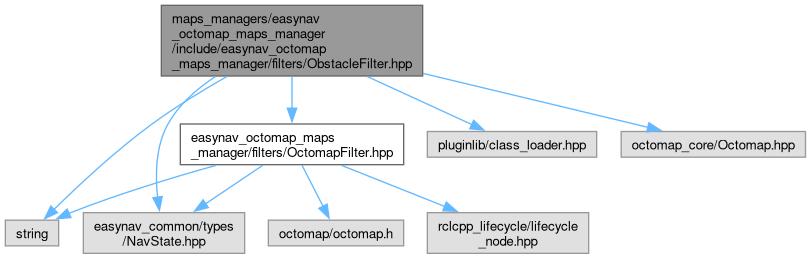
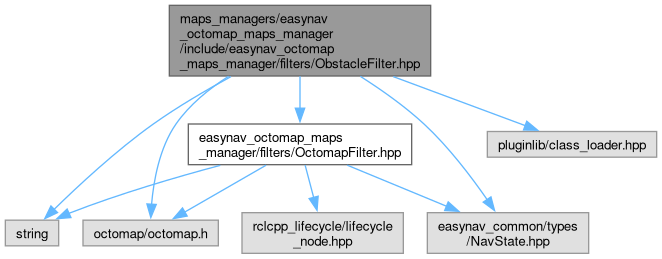
deploy: 0b95273f2a2592308e8ab91c7a0aa5f71e18d4a2

diff --git a/easynav__octomap__maps__manager_2src_2easynav__octomap__maps__manager_2filters_2InflationFilter_8cpp.html b/easynav__octomap__maps__manager_2src_2easynav__octomap__maps__manager_2filters_2InflationFilter_8cpp.html
@@ -111,7 +111,7 @@ document.addEventListener('DOMContentLoaded', () => {
 <code>#include &quot;easynav_common/types/NavState.hpp&quot;</code><br />
 <code>#include &quot;easynav_sensors/types/Perceptions.hpp&quot;</code><br />
 <code>#include &quot;easynav_sensors/types/PointPerception.hpp&quot;</code><br />
-<code>#include &quot;octomap_core/Octomap.hpp&quot;</code><br />
+<code>#include &quot;octomap/octomap.h&quot;</code><br />
 <code>#include &quot;<a class="el" href="easynav__octomap__maps__manager_2include_2easynav__octomap__maps__manager_2filters_2InflationFilter_8hpp_source.html">easynav_octomap_maps_manager/filters/InflationFilter.hpp</a>&quot;</code><br />
 <code>#include &lt;pluginlib/class_list_macros.hpp&gt;</code><br />
 </div><div class="textblock"><div class="dynheader">
@@ -119,34 +119,33 @@ Include dependency graph for InflationFilter.cpp:</div>
 <div class="dyncontent">
 <div class="center"><img src="easynav__octomap__maps__manager_2src_2easynav__octomap__maps__manager_2filters_2InflationFilter_8cpp__incl.png" border="0" usemap="#amaps__managers_2easynav__octomap__maps__manager_2src_2easynav__octomap__maps__manager_2filters_2InflationFilter_8cpp" loading="lazy" alt=""/></div>
 <map name="amaps__managers_2easynav__octomap__maps__manager_2src_2easynav__octomap__maps__manager_2filters_2InflationFilter_8cpp" id="amaps__managers_2easynav__octomap__maps__manager_2src_2easynav__octomap__maps__manager_2filters_2InflationFilter_8cpp">
-<area shape="rect" title=" " alt="" coords="235,5,451,76"/>
-<area shape="rect" title=" " alt="" coords="156,309,210,334"/>
-<area shape="poly" title=" " alt="" coords="236,54,191,63,144,78,100,98,61,126,31,156,13,186,9,201,9,217,13,234,23,252,47,277,77,295,110,306,142,313,141,319,109,312,75,300,44,281,18,255,8,236,3,218,3,201,8,184,27,152,57,122,98,94,143,73,189,58,234,48"/>
-<area shape="rect" title=" " alt="" coords="578,301,740,342"/>
-<area shape="poly" title=" " alt="" coords="452,43,541,57,588,70,634,86,678,108,717,136,750,170,775,212,781,233,775,255,755,278,731,296,728,292,752,274,770,252,776,233,770,214,746,173,713,140,675,113,632,91,586,75,539,62,451,49"/>
-<area shape="rect" title=" " alt="" coords="83,124,240,165"/>
-<area shape="poly" title=" " alt="" coords="283,79,211,118,209,114,280,74"/>
-<area shape="rect" title=" " alt="" coords="264,124,422,165"/>
-<area shape="poly" title=" " alt="" coords="346,76,346,108,340,108,340,76"/>
-<area shape="rect" title=" " alt="" coords="32,220,217,246"/>
-<area shape="poly" title=" " alt="" coords="236,64,136,90,97,107,73,126,67,145,72,167,85,188,101,207,97,211,81,191,67,169,61,145,69,122,94,102,135,85,234,58"/>
-<area shape="rect" href="easynav__octomap__maps__manager_2include_2easynav__octomap__maps__manager_2filters_2InflationFilter_8hpp.html" title=" " alt="" coords="446,124,661,165"/>
-<area shape="poly" title=" " alt="" coords="416,74,500,114,498,119,414,79"/>
-<area shape="rect" title=" " alt="" coords="835,124,963,165"/>
-<area shape="poly" title=" " alt="" coords="451,56,623,85,817,121,821,122,820,127,816,127,623,91,451,62"/>
-<area shape="poly" title=" " alt="" coords="446,168,350,190,309,202,280,215,256,233,234,255,200,298,196,294,230,251,252,229,278,210,307,197,348,185,445,163"/>
-<area shape="poly" title=" " alt="" coords="557,165,564,207,571,230,581,252,597,272,617,290,613,294,594,276,577,255,566,232,559,208,552,165"/>
-<area shape="poly" title=" " alt="" coords="456,168,200,219,199,214,455,163"/>
-<area shape="rect" title=" " alt="" coords="590,220,760,246"/>
-<area shape="poly" title=" " alt="" coords="583,163,647,209,644,213,580,167"/>
-<area shape="rect" href="OctomapFilter_8hpp.html" title=" " alt="" coords="291,213,515,253"/>
-<area shape="poly" title=" " alt="" coords="521,167,451,207,449,203,518,163"/>
-<area shape="poly" title=" " alt="" coords="346,256,223,304,221,304,219,299,221,299,344,251"/>
-<area shape="poly" title=" " alt="" coords="462,251,587,293,586,299,460,256"/>
-<area shape="rect" title=" " alt="" coords="234,309,369,334"/>
-<area shape="poly" title=" " alt="" coords="382,256,329,301,325,297,378,252"/>
-<area shape="rect" title=" " alt="" coords="393,301,554,342"/>
-<area shape="poly" title=" " alt="" coords="421,252,450,288,446,291,417,256"/>
+<area shape="rect" title=" " alt="" coords="519,5,734,76"/>
+<area shape="rect" title=" " alt="" coords="5,309,59,334"/>
+<area shape="poly" title=" " alt="" coords="519,53,410,63,293,79,187,100,146,112,115,126,89,144,73,162,48,214,37,255,34,294,29,293,32,254,43,212,68,159,86,140,112,122,144,107,186,95,292,74,410,58,518,47"/>
+<area shape="rect" title=" " alt="" coords="161,301,322,342"/>
+<area shape="poly" title=" " alt="" coords="519,60,390,83,250,117,186,138,130,161,87,186,60,214,54,229,54,242,60,254,71,265,105,284,147,299,145,304,103,289,68,270,56,257,49,244,48,228,55,211,83,182,127,156,184,133,249,112,389,78,518,55"/>
+<area shape="rect" title=" " alt="" coords="664,124,821,165"/>
+<area shape="poly" title=" " alt="" coords="668,74,711,112,707,116,664,78"/>
+<area shape="rect" title=" " alt="" coords="845,124,1003,165"/>
+<area shape="poly" title=" " alt="" coords="729,74,853,116,851,121,728,79"/>
+<area shape="rect" title=" " alt="" coords="531,309,666,334"/>
+<area shape="poly" title=" " alt="" coords="626,76,604,293,599,293,621,76"/>
+<area shape="rect" href="easynav__octomap__maps__manager_2include_2easynav__octomap__maps__manager_2filters_2InflationFilter_8hpp.html" title=" " alt="" coords="244,124,460,165"/>
+<area shape="poly" title=" " alt="" coords="533,79,420,121,418,116,532,74"/>
+<area shape="rect" title=" " alt="" coords="1027,124,1154,165"/>
+<area shape="poly" title=" " alt="" coords="735,61,1012,121,1011,126,734,66"/>
+<area shape="poly" title=" " alt="" coords="244,161,134,182,88,197,59,215,47,232,39,252,33,294,28,293,34,251,42,229,56,211,86,192,132,177,243,156"/>
+<area shape="poly" title=" " alt="" coords="339,167,305,214,261,289,256,286,300,211,335,164"/>
+<area shape="poly" title=" " alt="" coords="461,162,509,181,552,211,569,229,581,251,596,293,591,295,576,253,564,233,549,215,507,186,459,167"/>
+<area shape="rect" title=" " alt="" coords="70,220,239,246"/>
+<area shape="poly" title=" " alt="" coords="308,168,197,216,195,211,306,163"/>
+<area shape="rect" href="OctomapFilter_8hpp.html" title=" " alt="" coords="315,213,538,253"/>
+<area shape="poly" title=" " alt="" coords="371,163,402,199,398,203,367,167"/>
+<area shape="poly" title=" " alt="" coords="337,257,75,314,74,309,336,251"/>
+<area shape="poly" title=" " alt="" coords="386,256,298,297,296,292,383,251"/>
+<area shape="poly" title=" " alt="" coords="467,251,562,299,560,304,465,256"/>
+<area shape="rect" title=" " alt="" coords="346,301,507,342"/>
+<area shape="poly" title=" " alt="" coords="429,254,429,286,424,286,424,254"/>
 </map>
 </div>
 </div><table class="memberdecls">

diff --git a/easynav__octomap__maps__manager_2src_2easynav__octomap__maps__manager_2filters_2ObstacleFilter_8cpp.html b/easynav__octomap__maps__manager_2src_2easynav__octomap__maps__manager_2filters_2ObstacleFilter_8cpp.html
@@ -111,7 +111,7 @@ document.addEventListener('DOMContentLoaded', () => {
 <code>#include &quot;easynav_common/types/NavState.hpp&quot;</code><br />
 <code>#include &quot;easynav_sensors/types/Perceptions.hpp&quot;</code><br />
 <code>#include &quot;easynav_sensors/types/PointPerception.hpp&quot;</code><br />
-<code>#include &quot;octomap_core/Octomap.hpp&quot;</code><br />
+<code>#include &quot;octomap/octomap.h&quot;</code><br />
 <code>#include &quot;<a class="el" href="easynav__octomap__maps__manager_2include_2easynav__octomap__maps__manager_2filters_2ObstacleFilter_8hpp_source.html">easynav_octomap_maps_manager/filters/ObstacleFilter.hpp</a>&quot;</code><br />
 <code>#include &lt;pluginlib/class_list_macros.hpp&gt;</code><br />
 </div><div class="textblock"><div class="dynheader">
@@ -119,34 +119,33 @@ Include dependency graph for ObstacleFilter.cpp:</div>
 <div class="dyncontent">
 <div class="center"><img src="easynav__octomap__maps__manager_2src_2easynav__octomap__maps__manager_2filters_2ObstacleFilter_8cpp__incl.png" border="0" usemap="#amaps__managers_2easynav__octomap__maps__manager_2src_2easynav__octomap__maps__manager_2filters_2ObstacleFilter_8cpp" loading="lazy" alt=""/></div>
 <map name="amaps__managers_2easynav__octomap__maps__manager_2src_2easynav__octomap__maps__manager_2filters_2ObstacleFilter_8cpp" id="amaps__managers_2easynav__octomap__maps__manager_2src_2easynav__octomap__maps__manager_2filters_2ObstacleFilter_8cpp">
-<area shape="rect" title=" " alt="" coords="232,5,454,76"/>
-<area shape="rect" title=" " alt="" coords="156,309,210,334"/>
-<area shape="poly" title=" " alt="" coords="232,54,188,64,143,78,99,99,61,126,31,156,13,186,9,201,9,217,13,234,23,252,47,277,77,295,110,306,142,313,141,319,109,312,75,300,44,281,18,255,8,236,3,218,3,201,8,184,27,152,57,122,97,94,141,73,186,59,231,49"/>
-<area shape="rect" title=" " alt="" coords="578,301,740,342"/>
-<area shape="poly" title=" " alt="" coords="455,43,544,57,590,70,636,86,680,108,718,136,751,170,775,212,781,233,775,255,755,278,731,296,728,292,752,274,770,252,776,233,770,214,746,173,715,140,677,113,634,91,589,75,543,62,454,49"/>
-<area shape="rect" title=" " alt="" coords="83,124,240,165"/>
-<area shape="poly" title=" " alt="" coords="283,79,211,118,209,114,280,74"/>
-<area shape="rect" title=" " alt="" coords="264,124,422,165"/>
-<area shape="poly" title=" " alt="" coords="346,76,346,108,340,108,340,76"/>
-<area shape="rect" title=" " alt="" coords="32,220,217,246"/>
-<area shape="poly" title=" " alt="" coords="232,64,135,91,97,107,73,126,67,145,72,167,85,188,101,207,97,211,81,191,67,169,61,145,69,122,94,103,133,86,231,59"/>
-<area shape="rect" href="easynav__octomap__maps__manager_2include_2easynav__octomap__maps__manager_2filters_2ObstacleFilter_8hpp.html" title=" " alt="" coords="445,124,668,165"/>
-<area shape="poly" title=" " alt="" coords="417,74,502,114,500,119,415,79"/>
-<area shape="rect" title=" " alt="" coords="835,124,963,165"/>
-<area shape="poly" title=" " alt="" coords="455,57,626,86,817,121,821,122,820,127,816,127,625,91,454,62"/>
-<area shape="poly" title=" " alt="" coords="447,168,350,190,309,202,280,215,256,233,234,255,200,298,196,294,230,251,252,229,278,210,307,197,349,185,446,163"/>
-<area shape="poly" title=" " alt="" coords="559,165,565,207,571,230,581,252,597,272,617,290,613,294,593,276,577,255,566,232,560,208,554,166"/>
-<area shape="poly" title=" " alt="" coords="458,168,200,219,199,214,457,163"/>
-<area shape="rect" title=" " alt="" coords="590,220,760,246"/>
-<area shape="poly" title=" " alt="" coords="585,163,648,209,645,213,582,167"/>
-<area shape="rect" href="OctomapFilter_8hpp.html" title=" " alt="" coords="291,213,515,253"/>
-<area shape="poly" title=" " alt="" coords="523,168,452,207,449,203,520,163"/>
-<area shape="poly" title=" " alt="" coords="346,256,223,304,221,304,219,299,221,299,344,251"/>
-<area shape="poly" title=" " alt="" coords="462,251,587,293,586,299,460,256"/>
-<area shape="rect" title=" " alt="" coords="234,309,369,334"/>
-<area shape="poly" title=" " alt="" coords="382,256,329,301,325,297,378,252"/>
-<area shape="rect" title=" " alt="" coords="393,301,554,342"/>
-<area shape="poly" title=" " alt="" coords="421,252,450,288,446,291,417,256"/>
+<area shape="rect" title=" " alt="" coords="516,5,738,76"/>
+<area shape="rect" title=" " alt="" coords="5,309,59,334"/>
+<area shape="poly" title=" " alt="" coords="516,53,407,64,291,79,186,100,145,112,115,126,89,144,73,162,48,214,37,255,34,294,29,293,32,254,43,212,68,159,86,140,112,122,143,107,185,95,290,74,407,58,515,47"/>
+<area shape="rect" title=" " alt="" coords="161,301,322,342"/>
+<area shape="poly" title=" " alt="" coords="515,60,387,84,248,117,184,138,129,161,86,187,60,214,54,229,54,242,60,254,71,265,105,284,147,299,145,304,103,289,68,270,56,257,49,244,48,228,55,211,83,182,127,156,182,133,246,112,386,79,514,55"/>
+<area shape="rect" title=" " alt="" coords="664,124,821,165"/>
+<area shape="poly" title=" " alt="" coords="668,74,711,112,707,116,664,78"/>
+<area shape="rect" title=" " alt="" coords="845,124,1003,165"/>
+<area shape="poly" title=" " alt="" coords="729,74,853,116,851,121,728,79"/>
+<area shape="rect" title=" " alt="" coords="531,309,666,334"/>
+<area shape="poly" title=" " alt="" coords="626,76,604,293,599,293,621,76"/>
+<area shape="rect" href="easynav__octomap__maps__manager_2include_2easynav__octomap__maps__manager_2filters_2ObstacleFilter_8hpp.html" title=" " alt="" coords="241,124,463,165"/>
+<area shape="poly" title=" " alt="" coords="533,79,420,121,418,116,532,74"/>
+<area shape="rect" title=" " alt="" coords="1027,124,1154,165"/>
+<area shape="poly" title=" " alt="" coords="739,62,1012,121,1011,126,738,67"/>
+<area shape="poly" title=" " alt="" coords="241,161,132,183,88,197,59,215,47,232,39,252,33,294,28,293,34,251,42,229,56,211,86,192,131,177,240,156"/>
+<area shape="poly" title=" " alt="" coords="339,167,305,214,261,289,256,286,300,211,335,164"/>
+<area shape="poly" title=" " alt="" coords="463,163,510,182,552,211,569,229,581,251,596,293,591,295,576,253,564,233,549,215,507,187,461,168"/>
+<area shape="rect" title=" " alt="" coords="70,220,239,246"/>
+<area shape="poly" title=" " alt="" coords="308,168,197,216,195,211,306,163"/>
+<area shape="rect" href="OctomapFilter_8hpp.html" title=" " alt="" coords="315,213,538,253"/>
+<area shape="poly" title=" " alt="" coords="371,163,402,199,398,203,367,167"/>
+<area shape="poly" title=" " alt="" coords="337,257,75,314,74,309,336,251"/>
+<area shape="poly" title=" " alt="" coords="386,256,298,297,296,292,383,251"/>
+<area shape="poly" title=" " alt="" coords="467,251,562,299,560,304,465,256"/>
+<area shape="rect" title=" " alt="" coords="346,301,507,342"/>
+<area shape="poly" title=" " alt="" coords="429,254,429,286,424,286,424,254"/>
 </map>
 </div>
 </div><table class="memberdecls">

diff --git a/easynav__octomap__maps__manager_2include_2easynav__octomap__maps__manager_2filters_2ObstacleFilter_8hpp.html b/easynav__octomap__maps__manager_2include_2easynav__octomap__maps__manager_2filters_2ObstacleFilter_8hpp.html
@@ -110,7 +110,7 @@ document.addEventListener('DOMContentLoaded', () => {
 <div class="contents">
 <div class="textblock"><code>#include &lt;string&gt;</code><br />
 <code>#include &quot;pluginlib/class_loader.hpp&quot;</code><br />
-<code>#include &quot;octomap_core/Octomap.hpp&quot;</code><br />
+<code>#include &quot;octomap/octomap.h&quot;</code><br />
 <code>#include &quot;easynav_common/types/NavState.hpp&quot;</code><br />
 <code>#include &quot;<a class="el" href="OctomapFilter_8hpp_source.html">easynav_octomap_maps_manager/filters/OctomapFilter.hpp</a>&quot;</code><br />
 </div><div class="textblock"><div class="dynheader">
@@ -118,23 +118,22 @@ Include dependency graph for ObstacleFilter.hpp:</div>
 <div class="dyncontent">
 <div class="center"><img src="easynav__octomap__maps__manager_2include_2easynav__octomap__maps__manager_2filters_2ObstacleFilter_8hpp__incl.png" border="0" usemap="#amaps__managers_2easynav__octomap__maps__manager_2include_2easynav__octomap__maps__manager_2filters_2ObstacleFilter_8hpp" loading="lazy" alt=""/></div>
 <map name="amaps__managers_2easynav__octomap__maps__manager_2include_2easynav__octomap__maps__manager_2filters_2ObstacleFilter_8hpp" id="amaps__managers_2easynav__octomap__maps__manager_2include_2easynav__octomap__maps__manager_2filters_2ObstacleFilter_8hpp">
-<area shape="rect" title=" " alt="" coords="161,5,423,76"/>
+<area shape="rect" title=" " alt="" coords="169,5,431,76"/>
 <area shape="rect" title=" " alt="" coords="5,220,59,246"/>
-<area shape="poly" title=" " alt="" coords="228,79,154,126,100,170,56,211,52,208,96,166,150,122,225,74"/>
-<area shape="rect" title=" " alt="" coords="427,132,597,157"/>
-<area shape="poly" title=" " alt="" coords="368,74,473,122,471,127,366,79"/>
-<area shape="rect" title=" " alt="" coords="621,132,806,157"/>
-<area shape="poly" title=" " alt="" coords="424,71,648,125,647,130,422,76"/>
-<area shape="rect" title=" " alt="" coords="83,213,245,253"/>
-<area shape="poly" title=" " alt="" coords="217,79,191,99,170,125,163,142,160,161,160,197,155,198,155,160,158,141,166,123,187,96,214,74"/>
-<area shape="rect" href="OctomapFilter_8hpp.html" title=" " alt="" coords="180,124,404,165"/>
-<area shape="poly" title=" " alt="" coords="295,76,295,108,289,108,289,76"/>
-<area shape="poly" title=" " alt="" coords="217,168,146,189,72,215,70,216,68,211,70,210,144,184,215,163"/>
-<area shape="poly" title=" " alt="" coords="264,167,207,206,204,202,261,163"/>
-<area shape="rect" title=" " alt="" coords="268,220,404,246"/>
-<area shape="poly" title=" " alt="" coords="304,164,326,205,321,208,300,166"/>
+<area shape="poly" title=" " alt="" coords="232,79,155,126,100,170,56,211,52,207,97,166,152,122,230,74"/>
+<area shape="rect" title=" " alt="" coords="487,132,657,157"/>
+<area shape="poly" title=" " alt="" coords="394,74,526,123,525,128,392,79"/>
+<area shape="rect" title=" " alt="" coords="83,220,218,246"/>
+<area shape="poly" title=" " alt="" coords="230,78,202,100,178,126,168,144,161,165,154,205,149,204,156,164,163,142,174,122,198,96,227,74"/>
 <area shape="rect" title=" " alt="" coords="427,213,589,253"/>
-<area shape="poly" title=" " alt="" coords="342,163,446,204,444,209,340,168"/>
+<area shape="poly" title=" " alt="" coords="362,74,395,96,426,122,461,160,489,198,485,201,457,164,422,126,391,101,359,79"/>
+<area shape="rect" href="OctomapFilter_8hpp.html" title=" " alt="" coords="188,124,412,165"/>
+<area shape="poly" title=" " alt="" coords="303,76,303,108,297,108,297,76"/>
+<area shape="poly" title=" " alt="" coords="221,168,148,189,72,215,70,216,68,211,70,210,146,184,220,163"/>
+<area shape="poly" title=" " alt="" coords="267,167,186,214,183,210,265,163"/>
+<area shape="poly" title=" " alt="" coords="348,163,448,204,446,209,346,168"/>
+<area shape="rect" title=" " alt="" coords="242,213,403,253"/>
+<area shape="poly" title=" " alt="" coords="308,165,316,197,311,198,303,166"/>
 </map>
 </div>
 </div><div class="textblock"><div class="dynheader">

diff --git a/easynav__octomap__maps__manager_2include_2easynav__octomap__maps__manager_2filters_2InflationFilter_8hpp.html b/easynav__octomap__maps__manager_2include_2easynav__octomap__maps__manager_2filters_2InflationFilter_8hpp.html
@@ -110,7 +110,7 @@ document.addEventListener('DOMContentLoaded', () => {
 <div class="contents">
 <div class="textblock"><code>#include &lt;string&gt;</code><br />
 <code>#include &quot;pluginlib/class_loader.hpp&quot;</code><br />
-<code>#include &quot;octomap_core/Octomap.hpp&quot;</code><br />
+<code>#include &quot;octomap/octomap.h&quot;</code><br />
 <code>#include &quot;easynav_common/types/NavState.hpp&quot;</code><br />
 <code>#include &quot;<a class="el" href="OctomapFilter_8hpp_source.html">easynav_octomap_maps_manager/filters/OctomapFilter.hpp</a>&quot;</code><br />
 </div><div class="textblock"><div class="dynheader">
@@ -118,23 +118,22 @@ Include dependency graph for InflationFilter.hpp:</div>
 <div class="dyncontent">
 <div class="center"><img src="easynav__octomap__maps__manager_2include_2easynav__octomap__maps__manager_2filters_2InflationFilter_8hpp__incl.png" border="0" usemap="#amaps__managers_2easynav__octomap__maps__manager_2include_2easynav__octomap__maps__manager_2filters_2InflationFilter_8hpp" loading="lazy" alt=""/></div>
 <map name="amaps__managers_2easynav__octomap__maps__manager_2include_2easynav__octomap__maps__manager_2filters_2InflationFilter_8hpp" id="amaps__managers_2easynav__octomap__maps__manager_2include_2easynav__octomap__maps__manager_2filters_2InflationFilter_8hpp">
-<area shape="rect" title=" " alt="" coords="191,5,393,91"/>
+<area shape="rect" title=" " alt="" coords="199,5,401,91"/>
 <area shape="rect" title=" " alt="" coords="5,235,59,261"/>
-<area shape="poly" title=" " alt="" coords="223,94,154,141,101,185,57,226,53,222,97,181,150,137,220,89"/>
-<area shape="rect" title=" " alt="" coords="427,146,597,172"/>
-<area shape="poly" title=" " alt="" coords="378,89,475,137,473,142,376,94"/>
-<area shape="rect" title=" " alt="" coords="621,146,806,172"/>
-<area shape="poly" title=" " alt="" coords="394,73,652,140,651,145,392,78"/>
-<area shape="rect" title=" " alt="" coords="83,228,245,268"/>
-<area shape="poly" title=" " alt="" coords="213,93,189,115,170,140,164,157,160,176,161,212,155,212,155,175,159,156,166,138,185,111,210,89"/>
-<area shape="rect" href="OctomapFilter_8hpp.html" title=" " alt="" coords="180,139,404,180"/>
-<area shape="poly" title=" " alt="" coords="295,91,295,123,289,123,289,91"/>
-<area shape="poly" title=" " alt="" coords="217,183,146,204,72,230,70,231,68,226,70,225,144,199,215,178"/>
-<area shape="poly" title=" " alt="" coords="264,182,207,221,204,217,261,178"/>
-<area shape="rect" title=" " alt="" coords="268,235,404,261"/>
-<area shape="poly" title=" " alt="" coords="304,179,326,220,321,223,300,181"/>
+<area shape="poly" title=" " alt="" coords="227,94,155,141,101,185,57,226,53,222,98,181,152,137,224,89"/>
+<area shape="rect" title=" " alt="" coords="487,146,657,172"/>
+<area shape="poly" title=" " alt="" coords="402,87,528,138,526,143,400,92"/>
+<area shape="rect" title=" " alt="" coords="83,235,218,261"/>
+<area shape="poly" title=" " alt="" coords="226,93,200,115,178,140,168,160,161,180,154,220,149,219,156,179,163,157,174,138,196,111,222,89"/>
 <area shape="rect" title=" " alt="" coords="427,228,589,268"/>
-<area shape="poly" title=" " alt="" coords="342,178,446,219,444,224,340,183"/>
+<area shape="poly" title=" " alt="" coords="367,89,426,137,460,175,489,213,485,216,456,179,422,141,363,93"/>
+<area shape="rect" href="OctomapFilter_8hpp.html" title=" " alt="" coords="188,139,412,180"/>
+<area shape="poly" title=" " alt="" coords="303,91,303,123,297,123,297,91"/>
+<area shape="poly" title=" " alt="" coords="221,183,148,204,72,230,70,231,68,226,70,225,146,199,220,178"/>
+<area shape="poly" title=" " alt="" coords="267,182,186,229,183,225,265,178"/>
+<area shape="poly" title=" " alt="" coords="348,178,448,219,446,224,346,183"/>
+<area shape="rect" title=" " alt="" coords="242,228,403,268"/>
+<area shape="poly" title=" " alt="" coords="308,180,316,212,311,213,303,181"/>
 </map>
 </div>
 </div><div class="textblock"><div class="dynheader">

diff --git a/easynav__octomap__maps__manager_2include_2easynav__octomap__maps__manager_2filters_2InflationFilter_8hpp_source.html b/easynav__octomap__maps__manager_2include_2easynav__octomap__maps__manager_2filters_2InflationFilter_8hpp_source.html
@@ -128,7 +128,7 @@ document.addEventListener('DOMContentLoaded', () => {
 <div class="line"><a id="l00021" name="l00021"></a><span class="lineno">   21</span> </div>
 <div class="line"><a id="l00022" name="l00022"></a><span class="lineno">   22</span><span class="preprocessor">#include &quot;pluginlib/class_loader.hpp&quot;</span></div>
 <div class="line"><a id="l00023" name="l00023"></a><span class="lineno">   23</span> </div>
-<div class="line"><a id="l00024" name="l00024"></a><span class="lineno">   24</span><span class="preprocessor">#include &quot;octomap_core/Octomap.hpp&quot;</span></div>
+<div class="line"><a id="l00024" name="l00024"></a><span class="lineno">   24</span><span class="preprocessor">#include &quot;octomap/octomap.h&quot;</span></div>
 <div class="line"><a id="l00025" name="l00025"></a><span class="lineno">   25</span><span class="preprocessor">#include &quot;easynav_common/types/NavState.hpp&quot;</span></div>
 <div class="line"><a id="l00026" name="l00026"></a><span class="lineno">   26</span> </div>
 <div class="line"><a id="l00027" name="l00027"></a><span class="lineno">   27</span><span class="preprocessor">#include &quot;<a class="code" href="OctomapFilter_8hpp.html">easynav_octomap_maps_manager/filters/OctomapFilter.hpp</a>&quot;</span></div>

diff --git a/easynav__octomap__maps__manager_2include_2easynav__octomap__maps__manager_2filters_2ObstacleFilter_8hpp_source.html b/easynav__octomap__maps__manager_2include_2easynav__octomap__maps__manager_2filters_2ObstacleFilter_8hpp_source.html
@@ -128,7 +128,7 @@ document.addEventListener('DOMContentLoaded', () => {
 <div class="line"><a id="l00021" name="l00021"></a><span class="lineno">   21</span> </div>
 <div class="line"><a id="l00022" name="l00022"></a><span class="lineno">   22</span><span class="preprocessor">#include &quot;pluginlib/class_loader.hpp&quot;</span></div>
 <div class="line"><a id="l00023" name="l00023"></a><span class="lineno">   23</span> </div>
-<div class="line"><a id="l00024" name="l00024"></a><span class="lineno">   24</span><span class="preprocessor">#include &quot;octomap_core/Octomap.hpp&quot;</span></div>
+<div class="line"><a id="l00024" name="l00024"></a><span class="lineno">   24</span><span class="preprocessor">#include &quot;octomap/octomap.h&quot;</span></div>
 <div class="line"><a id="l00025" name="l00025"></a><span class="lineno">   25</span><span class="preprocessor">#include &quot;easynav_common/types/NavState.hpp&quot;</span></div>
 <div class="line"><a id="l00026" name="l00026"></a><span class="lineno">   26</span> </div>
 <div class="line"><a id="l00027" name="l00027"></a><span class="lineno">   27</span><span class="preprocessor">#include &quot;<a class="code" href="OctomapFilter_8hpp.html">easynav_octomap_maps_manager/filters/OctomapFilter.hpp</a>&quot;</span></div>
